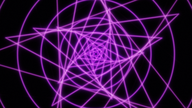
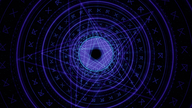
Rebuild Halloween VJ scenes with carved forms and spectral depth

diff --git a/docs/55_HALLOWEEN_VJ.md b/docs/55_HALLOWEEN_VJ.md
@@ -4,9 +4,9 @@ El set Halloween tiene ahora **34 escenas**. Las nuevas son procedurales: no nec
 
 | Índice | Escena | Movimiento |
 |---|---|---|
-| 31 | Portal ritual | Túnel de pentagramas y anillos de neón en perspectiva |
-| 32 | Calabazas acid | Mosaico de caras talladas, giro independiente y luz de golpe |
-| 33 | Espectros neón | Fantasmas de líneas luminosas con ondas y ojos |
+| 31 | Portal ritual | Sellos concéntricos con runas, filigrana, iris de fibras y brasas |
+| 32 | Calabazas acid | Calabaza central con volumen, piel estriada, tallado luminoso y satélites |
+| 33 | Espectros neón | Sudarios con volumen, rostros huecos, pliegues y bordes deshilachados |
 
 Las seis Detail de cada escena están descritas en su `.frag`. Speed mantiene el movimiento sin audio; los golpes avivan los elementos; cada voz del piano ilumina su zona. **Momento** activa el clímax de 22 segundos, con entrada y salida suaves. Mantienen el acabado, paletas, capas y controles del set Halloween.
 
@@ -19,3 +19,9 @@ El guion horario conserva sus 158 cues y el cierre de las 05:31: estas tres esce
 Se reportó un damero al activar el texto. El shader del texto compila fuera de TD; eso no demuestra que los TOPs o sus parámetros funcionen en el Mac. No se atribuye aún a GLSL ni se aplica una corrección especulativa.
 
 Con el fallo visible, revisar **View Errors** en `/project1/program_text`, `/project1/text_overlay_src`, `/project1/text_overlay_y` y `/project1/text_fade_tex`. Copiar el mensaje exacto y la versión de TD para corregir la causa y reproducirla en una prueba. Mientras tanto, ensayar también con Textvisible apagado y comprobar que el show continúa.
+
+## Segunda versión: detalle y profundidad
+
+Las escenas 31–33 se rehacen manteniendo sus índices. La 31 usa grabados en contrarrotación y una pupila central; la 32 ilumina gajos y tallado con una normal analítica; la 33 combina volumen del sudario con pliegues, cuencas y filamentos. No usan raymarching, texturas externas ni nuevas dependencias. Los seis Detail se describen en los shaders actualizados.
+
+Para cargar esta revisión basta **Recargar Shaders**; no cambia el número de escenas ni la red. Las miniaturas también se actualizaron. La compilación y los renders se prueban fuera de TD; el coste real de estas nuevas versiones debe comprobarse en el Mac.
